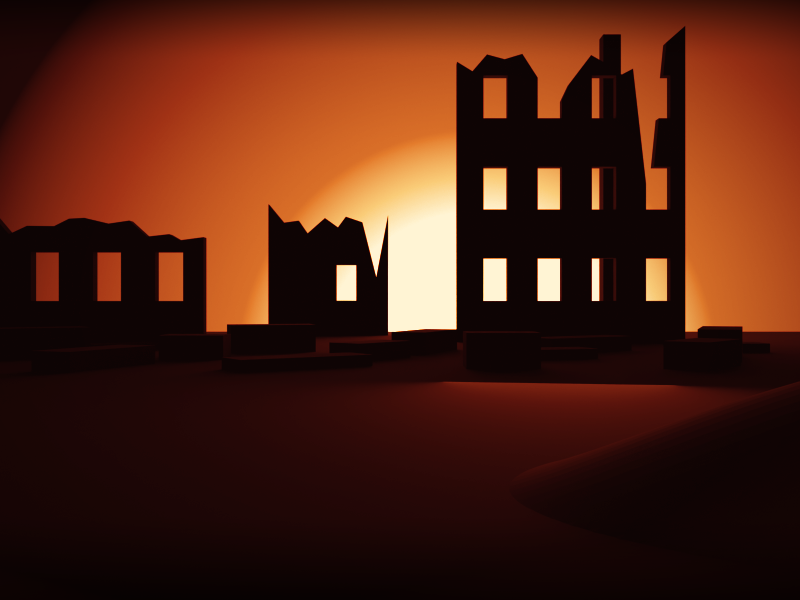
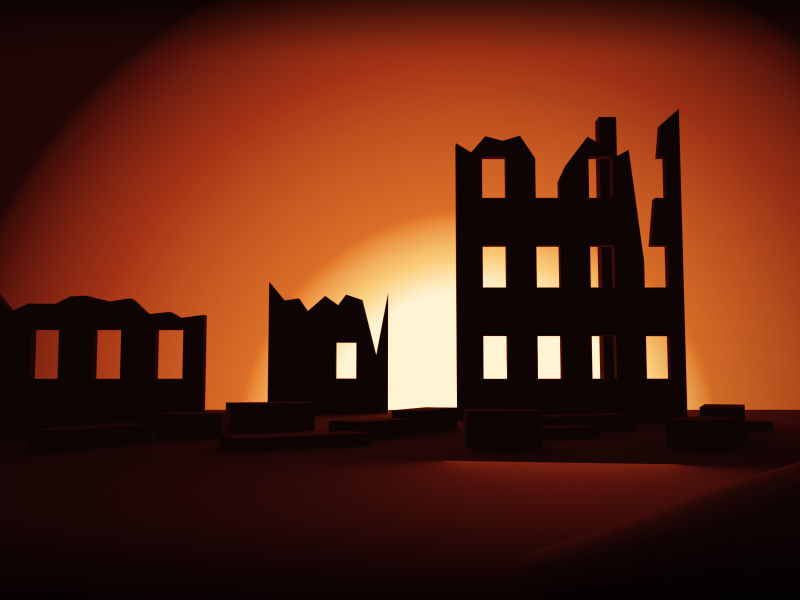
Menu poster: true silhouette soldier, back three-quarters, rifle slung
The rifleman no longer points. He stands back three-quarters to the viewer, looking
toward the burning town, Mosin with bayonet slung muzzle up, cropped at the chest.
He is rendered only as a coverage mask and painted flat #120806 in numpy with a
1-2 px rim of fire light on the edges facing the glow, so no shading, fill or
specular can show on him. The camera tilts up 5 deg to put more sky behind him.

diff --git a/tools/blender/menu.py b/tools/blender/menu.py
@@ -5,12 +5,14 @@
 Also writes public/menu/poster_plain.png: the same scene without the soldier, the backdrop of the
 working screens (setup, requisition, options, debrief) where he would only compete with the panels.
 
-The CC3 menu look, in our own art: a Soviet rifleman (SSh-40 helmet, greatcoat) on the left third
-points toward the menu buttons, rim-lit by a burning town whose ruins stand against the fire glow behind the menu buttons.  Everything is a simple procedural shape
-(metaball body, lathed helmet, boxes); the figure is a matte near-black silhouette that only the
-fire behind him rim-lights, like a poster.  The render is graded in
-numpy with a single maroon-to-flame gradient map so the poster has one clean palette (no texture
+The CC3 menu look, in our own art: a Soviet rifleman (SSh-40 helmet, greatcoat, Mosin slung muzzle
+up) on the left third, back three-quarters to the viewer, looks toward a burning town whose ruins
+stand against the fire glow behind the menu buttons.  Everything is a simple procedural shape
+(metaball body, lathed helmet, boxes).  The town render is graded in numpy with a single
+maroon-to-flame gradient map so the poster has one clean palette (no texture
 noise), then darkened toward the top bar and the bottom button strip so the chrome stays legible.
+The soldier is rendered only as a coverage mask and painted flat #120806 with a 1-2 px rim of fire
+light on the edges facing the glow, so he is a true poster silhouette with no shading at all.
 
 Scene: metres, camera looks along +Y, +Z up.  The figure stands at x<0 (screen left).
 --raw also writes poster_raw.png (the ungraded render) next to the poster, for tuning.
@@ -30,8 +32,9 @@ from common import clear_scene, make_material, save_png  # noqa: E402
 ROOT = os.path.abspath(os.path.join(os.path.dirname(__file__), "..", ".."))
 OUT = os.path.join(ROOT, "public", "menu", "poster.png")
 W, H = 800, 600
-FIG_X = -0.50   # figure position (m, screen left of centre)
+FIG_X = -0.44   # figure position (m, screen left of centre)
 SS = 2   # supersample
+FIG_RGB = (18, 8, 6)   # the soldier's flat silhouette colour (#120806)
 
 # gradient map, luminance 0..1 -> sRGB (dark oxblood -> maroon -> brick red -> flame -> hot white)
 GRADE = [(0.00, (14, 4, 4)), (0.10, (38, 8, 7)), (0.28, (92, 20, 12)), (0.50, (168, 52, 22)),
@@ -188,80 +191,63 @@ def build():
     cam = bpy.data.objects.new("cam", cam_d)
     scene.collection.objects.link(cam)
     cam.location = (0.0, -1.55, 1.48)
-    cam.rotation_euler = (math.radians(90), 0, 0)
+    cam.rotation_euler = (math.radians(95), 0, 0)   # tilted up: more sky behind the figure
     scene.camera = cam
 
-    # the figure is a poster silhouette: dark, matte, no specular; only the fire behind him
-    # draws a thin warm rim along his edges
-    dark = make_material("fig", "#3a2a22", roughness=1.0)
-    dark.node_tree.nodes["Principled BSDF"].inputs["Specular IOR Level"].default_value = 0.0
+    # The figure only supplies a mask: main() paints it flat near-black and draws the rim in
+    # numpy, so no light, shading or specular can ever show on him.
+    fig_mat = make_material("fig", "#120806", roughness=1.0)
     ruin = make_material("ruin", "#120c0a", roughness=1.0)
 
-    # ---- the rifleman in a greatcoat, rifle slung, pointing with his left hand ----
-    fx = 0.0      # modelled at the origin; the 'figure' empty places and turns him
-    body = Meta("body", dark)
-    body.ellipsoid((fx, 0.08, 1.02), 0.24, 0.14, 0.32)                      # chest (greatcoat)
-    body.ellipsoid((fx, 0.08, 0.70), 0.23, 0.13, 0.30)
-    body.capsule((fx - 0.20, 0.08, 1.31), (fx + 0.20, 0.08, 1.31), 0.070)    # square shoulders
-    body.capsule((fx - 0.23, 0.08, 1.27), (fx - 0.27, 0.10, 0.88), 0.064)    # right arm hanging
-    body.capsule((fx - 0.27, 0.10, 0.88), (fx - 0.24, 0.02, 0.62), 0.056)
-    # left arm (screen right) thrust forward: shoulder -> elbow -> wrist
-    sh = (fx + 0.21, 0.06, 1.28)
-    el = (fx + 0.28, -0.08, 1.39)
-    wr = (fx + 0.29, -0.27, 1.56)
-    body.capsule(sh, el, 0.064)
-    body.capsule(el, wr, 0.050)                                               # greatcoat sleeve
-    body.capsule((fx, 0.05, 1.34), (fx, 0.05, 1.46), 0.050)                  # neck
-    collar = lathe("collar", [(0.098, 0.045), (0.088, 0.0), (0.084, -0.04)], dark,          # stand-up collar
-                   (fx, 0.05, 1.39), segs=32, scale=(1.0, 0.95, 1.0))
+    # ---- the rifleman, modelled facing +Y (into the scene), his right side at +X ----
+    body = Meta("body", fig_mat)
+    body.ellipsoid((0, 0, 1.04), 0.23, 0.14, 0.32)                         # greatcoat chest
+    body.ellipsoid((0, 0.01, 0.72), 0.25, 0.16, 0.34)                      # skirt widening down
+    body.capsule((-0.20, 0, 1.31), (0.20, 0, 1.31), 0.068)                 # square shoulders
+    body.capsule((0, 0.01, 1.34), (0, 0.02, 1.46), 0.050)                  # neck
+    # right arm: hand up on the sling in front of the shoulder
+    body.capsule((0.21, 0, 1.30), (0.25, 0.06, 1.02), 0.060)
+    body.capsule((0.25, 0.06, 1.02), (0.17, 0.15, 1.20), 0.050)
+    body.ellipsoid((0.16, 0.17, 1.23), 0.030, 0.035, 0.040)                # fist on the strap
+    # left arm hanging, elbow a little out
+    body.capsule((-0.21, 0, 1.30), (-0.26, 0.00, 1.00), 0.060)
+    body.capsule((-0.26, 0.00, 1.00), (-0.24, 0.05, 0.74), 0.052)
+    collar = lathe("collar", [(0.098, 0.045), (0.088, 0.0), (0.084, -0.04)], fig_mat,          # stand-up collar
+                   (0, 0.01, 1.39), segs=32, scale=(1.0, 0.95, 1.0))
 
-    # the hand at silhouette level, pointing ahead-right: back of the hand, a straight index
-    # finger, the thumb laid along it, three curled fingers under the knuckles
-    hand = Meta("hand", dark)
-    ax = Vector((0.80, -0.50, 0.28)).normalized()           # pointing direction (figure space)
-    up = Vector((0.0, 0.0, 1.0))
-    side = ax.cross(up).normalized()
-    w = Vector(wr)
-    P = lambda a, s_, u: tuple(w + ax * a + side * s_ + up * u)   # noqa: E731
-    hand.capsule(P(-0.03, 0, 0), P(0.02, 0, 0), 0.030)                    # cuff / wrist
-    hand.ellipsoid(P(0.055, 0, 0), 0.034, 0.030, 0.030)                   # back of the hand
-    hand.capsule(P(0.08, 0, 0.012), P(0.17, 0, 0.018), 0.0095)           # index finger
-    hand.capsule(P(0.05, 0.02, 0.022), P(0.095, 0.012, 0.028), 0.010)    # thumb
-    for k in range(3):                                                    # curled fingers
-        hand.capsule(P(0.085, 0, -0.004 - 0.014 * k), P(0.075, 0, -0.018 - 0.014 * k), 0.0085)
-
-    head = Meta("head", dark)
+    head = Meta("head", fig_mat)
     hz = 1.565
-    head.ellipsoid((fx, 0.04, hz), 0.080, 0.090, 0.104)
-    head.ellipsoid((fx, -0.005, hz - 0.068), 0.058, 0.050, 0.038)                       # jaw/chin
-    head.capsule((fx, -0.056, hz + 0.0), (fx, -0.068, hz - 0.03), 0.011)                # nose
+    head.ellipsoid((0, 0.02, hz), 0.080, 0.090, 0.104)
+    head.ellipsoid((0, 0.06, hz - 0.068), 0.058, 0.050, 0.038)             # jaw/chin
+    head.capsule((0, 0.10, hz), (0, 0.115, hz - 0.03), 0.011)              # nose
     for sgn in (-1, 1):
-        head.ellipsoid((fx + sgn * 0.08, 0.04, hz - 0.01), 0.015, 0.024, 0.03)          # ears
+        head.ellipsoid((sgn * 0.08, 0.02, hz - 0.01), 0.015, 0.024, 0.03)  # ears
 
     # SSh-40: a low, deep dome whose sides come straight down over the temples and flare
     # out slightly at the rim; no brim, no visor, no German neck skirt
     prof = [(0.001, 0.112)] + [(0.121 * math.sin(math.radians(a)), 0.112 * math.cos(math.radians(a)))
                                for a in range(10, 91, 10)]
     prof += [(0.123, -0.030), (0.127, -0.050), (0.133, -0.062)]
-    helm = lathe("helmet", prof, dark, (fx, 0.035, hz + 0.05), scale=(1.0, 1.08, 1.0))
-    helm.rotation_euler = (math.radians(-5), 0, 0)
+    helm = lathe("helmet", prof, fig_mat, (0, 0.005, hz + 0.05), scale=(1.0, 1.08, 1.0))
+    helm.rotation_euler = (math.radians(5), 0, 0)
 
-    # Mosin slung on the right shoulder: muzzle and bayonet rise behind it, strap over the chest
-    r0 = Vector((fx - 0.15, 0.17, 0.62))
-    r1 = Vector((fx - 0.25, 0.19, 1.66))
+    # Mosin slung on the right shoulder, muzzle up, bayonet fixed; the strap runs over the
+    # shoulder down the front to his fist
+    r0 = Vector((0.22, -0.15, 0.80))
+    r1 = Vector((0.36, -0.17, 1.72))
     d = (r1 - r0).normalized()
-    rifle = [cylinder("stock", r0, r0 + d * 0.6, 0.024, dark),
-             cylinder("barrel", r0 + d * 0.55, r1, 0.011, dark),
-             cylinder("bayonet", r1, r1 + d * 0.28, 0.0045, dark, segs=6),
-             cylinder("sling", (fx - 0.20, 0.0, 1.33), (fx + 0.06, -0.12, 0.75), 0.009, dark, segs=6)]
+    rifle = [cylinder("stock", r0, r0 + d * 0.55, 0.026, fig_mat),
+             cylinder("barrel", r0 + d * 0.50, r1, 0.012, fig_mat),
+             cylinder("bayonet", r1, r1 + d * 0.30, 0.005, fig_mat, segs=6),
+             cylinder("strap", (0.31, -0.16, 1.50), (0.21, 0.02, 1.36), 0.008, fig_mat, segs=6)]
 
-    # stand him left of the buttons, turned a little toward the fire (screen right) so the
-    # rim light draws his profile; he points past the viewer toward the menu buttons
+    # stand him on the left third, back three-quarters to the viewer, looking toward the
+    # burning town behind the menu buttons
     fig = bpy.data.objects.new("figure", None)
     scene.collection.objects.link(fig)
-    fig.location = (FIG_X, 0.0, 0.0)
-    fig.rotation_euler = (0, 0, math.radians(18))
-    for o in (body.o, collar, hand.o, head.o, helm, *rifle):
+    fig.location = (FIG_X, 0.0, 0.14)     # on a rise of rubble (below the frame)
+    fig.rotation_euler = (0, 0, math.radians(-38))
+    for o in (body.o, collar, head.o, helm, *rifle):
         o.parent = fig
     fx = FIG_X
 
@@ -338,7 +324,7 @@ def build():
     bm.free()
     obj("mound", gm, ruin)
 
-    # ---- light: fire rim from behind-right, a dim warm fill from the front-left ----
+    # ---- light: the fire's glow over the rubble ----
     def area(name, loc, target, energy, size, rgb):
         ld = bpy.data.lights.new(name, "AREA")
         ld.energy, ld.size, ld.color = energy, size, rgb
@@ -349,16 +335,15 @@ def build():
         lo.rotation_quaternion = Vector((0, 0, -1)).rotation_difference((Vector(target) - Vector(loc)).normalized())
         return lo
 
-    area("rim", (fx + 0.8, 1.3, 1.7), (fx, 0.0, 1.3), 700.0, 0.5, (1.0, 0.55, 0.22))
-    area("rim2", (fx - 0.9, 1.3, 1.9), (fx, 0.0, 1.4), 300.0, 0.5, (1.0, 0.35, 0.12))
     area("glow", (3.0, 14.0, 1.5), (1.5, 5.0, 0.5), 120.0, 4.0, (1.0, 0.5, 0.15))
     return scene
 
 
 # --------------------------------------------------------------------------------------- grade --
-def grade(rgba):
-    """Gradient-map the luminance onto the poster palette, then shade top bar / bottom strip."""
-    rgb = rgba[..., :3].astype(np.float32) / 255.0
+def grade(rgb255):
+    """Gradient-map the luminance onto the poster palette, then shade top bar / bottom strip.
+    Takes and returns float RGB(A) 0..255 arrays."""
+    rgb = rgb255[..., :3] / 255.0
     lum = rgb @ np.array([0.2126, 0.7152, 0.0722], dtype=np.float32)
     lum = np.clip(lum * 1.15, 0, 1) ** 0.85
     xs = np.array([g[0] for g in GRADE], dtype=np.float32)
@@ -372,11 +357,11 @@ def grade(rgba):
     r = np.sqrt(((x - 0.5) / 0.75) ** 2 + ((y - 0.5) / 0.75) ** 2)
     shade *= 1.0 - 0.45 * np.clip(r - 0.35, 0, 1) ** 1.5                   # vignette
     out *= shade[..., None]
-    res = np.dstack([np.clip(out + 0.5, 0, 255).astype(np.uint8), np.full((h, w), 255, np.uint8)])
-    return res
+    return np.dstack([out, np.full((h, w), 255, np.float32)]).astype(np.float32)
 
 
 def render(scene, name):
+    """Renders and returns the float RGBA image at supersampled size (H*SS, W*SS, 4), top row first."""
     tmp = os.path.join(bpy.app.tempdir or "/tmp", name)
     scene.render.filepath = tmp
     scene.render.image_settings.file_format = "PNG"
@@ -385,9 +370,34 @@ def render(scene, name):
     buf = np.empty(W * SS * H * SS * 4, dtype=np.float32)
     img.pixels.foreach_get(buf)
     bpy.data.images.remove(img)
-    a = buf.reshape(H * SS, W * SS, 4)[::-1]
-    a = a.reshape(H, SS, W, SS, 4).mean(axis=(1, 3))
-    return (np.clip(a, 0, 1) * 255 + 0.5).astype(np.uint8)
+    return buf.reshape(H * SS, W * SS, 4)[::-1].copy()
+
+
+def downsample(a):
+    """(H*SS, W*SS, C) float 0..255 -> (H, W, C) uint8, box filtered."""
+    h, w, c = a.shape
+    a = a.reshape(h // SS, SS, w // SS, SS, c).mean(axis=(1, 3))
+    return (np.clip(a, 0, 255) + 0.5).astype(np.uint8)
+
+
+def silhouette(town, mask):
+    """Paints the soldier over the graded town: flat #120806, plus a thin rim of fire light on
+    the edges that face the glow (up and to the right), fading out down the figure."""
+    m = mask[..., None]
+    out = town * (1 - m) + np.array(FIG_RGB, np.float32) * m
+    # rim: figure pixels whose neighbour toward the fire is background (about 2 px at 1:1)
+    k = 2 * SS
+    toward = np.zeros_like(mask)
+    toward[k:, :-k] = mask[:-k, k:]                       # the pixel up-right of each pixel
+    edge = np.clip(mask - toward, 0, 1)
+    side = np.zeros_like(mask)
+    side[:, :-k] = mask[:, k:]                            # the pixel to the right
+    edge = np.maximum(edge, np.clip(mask - side, 0, 1) * 0.8)
+    h = mask.shape[0]
+    fade = np.clip(1.25 - np.arange(h, dtype=np.float32) / h * 1.4, 0.25, 1.0)[:, None]
+    glow = np.clip(town * 1.25 + 30, 0, 255)                # the fire behind that edge, brighter
+    a = (edge * fade)[..., None] * 0.95
+    return out * (1 - a) + glow * a
 
 
 def main():
@@ -397,17 +407,33 @@ def main():
     scene.render.threads_mode = "FIXED"   # the machine is shared with other render jobs
     scene.render.threads = 4
     scene.cycles.use_denoising = True
-    rgba = render(scene, "poster.png")
-    if raw:
-        save_png(OUT.replace(".png", "_raw.png"), rgba)
-    save_png(OUT, grade(rgba))
-    print("wrote", OUT)
-    # the same town without the soldier: the backdrop of the working screens behind their panels
-    for o in bpy.data.objects["figure"].children:
+    figure = list(bpy.data.objects["figure"].children)
+
+    # the town alone (also the working screens' backdrop)
+    for o in figure:
         o.hide_render = True
+    raw_town = render(scene, "poster_plain.png")
+    town_ss = grade((np.clip(raw_town, 0, 1) * 255).astype(np.float32))
     plain = OUT.replace(".png", "_plain.png")
-    save_png(plain, grade(render(scene, "poster_plain.png")))
+    save_png(plain, downsample(town_ss))
     print("wrote", plain)
+    if raw:
+        save_png(OUT.replace(".png", "_raw.png"), downsample(np.clip(raw_town, 0, 1) * 255))
+
+    # the soldier's mask: only his objects, transparent film, alpha = coverage
+    others = [o for o in scene.objects if o.type in ("MESH", "META") and o not in figure]
+    for o in others:
+        o.hide_render = True
+    for o in figure:
+        o.hide_render = False
+    scene.render.film_transparent = True
+    scene.cycles.samples = 16
+    scene.cycles.use_denoising = False
+    mask = render(scene, "poster_mask.png")[..., 3]
+
+    rgb = silhouette(town_ss[..., :3], mask)
+    save_png(OUT, downsample(np.dstack([rgb, np.full(mask.shape, 255, np.float32)])))
+    print("wrote", OUT)
 
 
 main()
